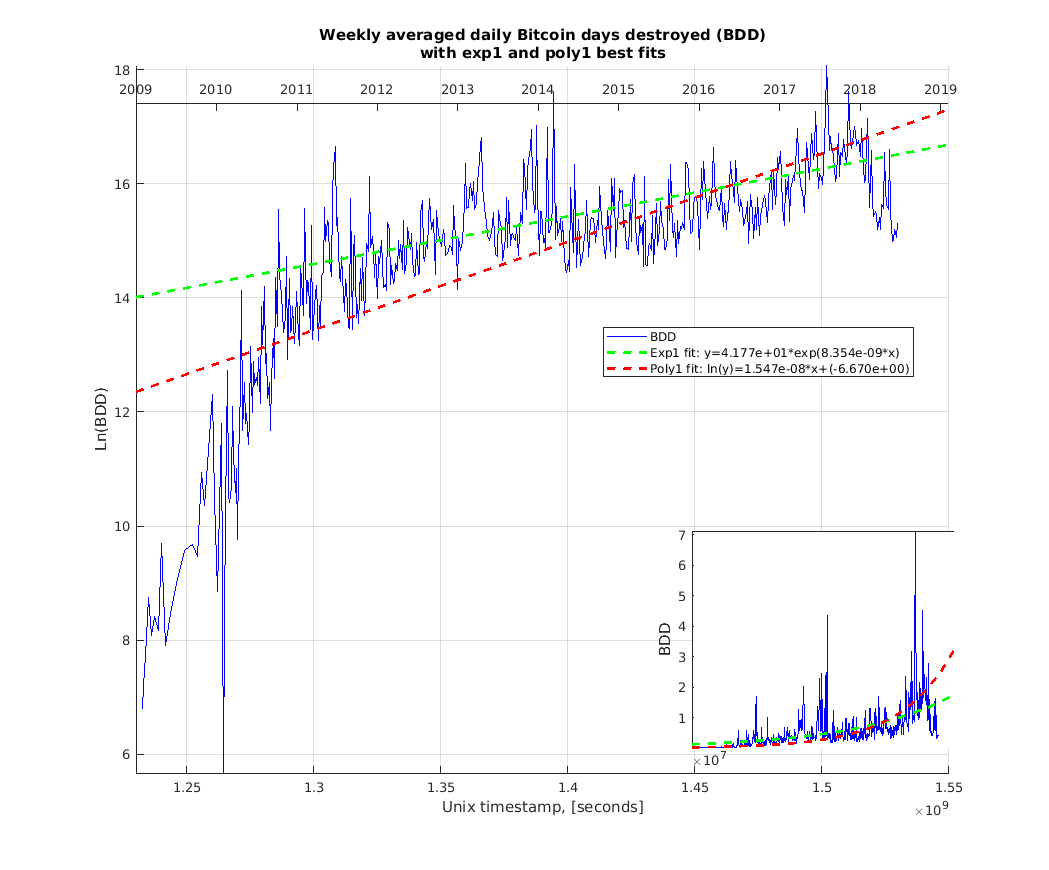
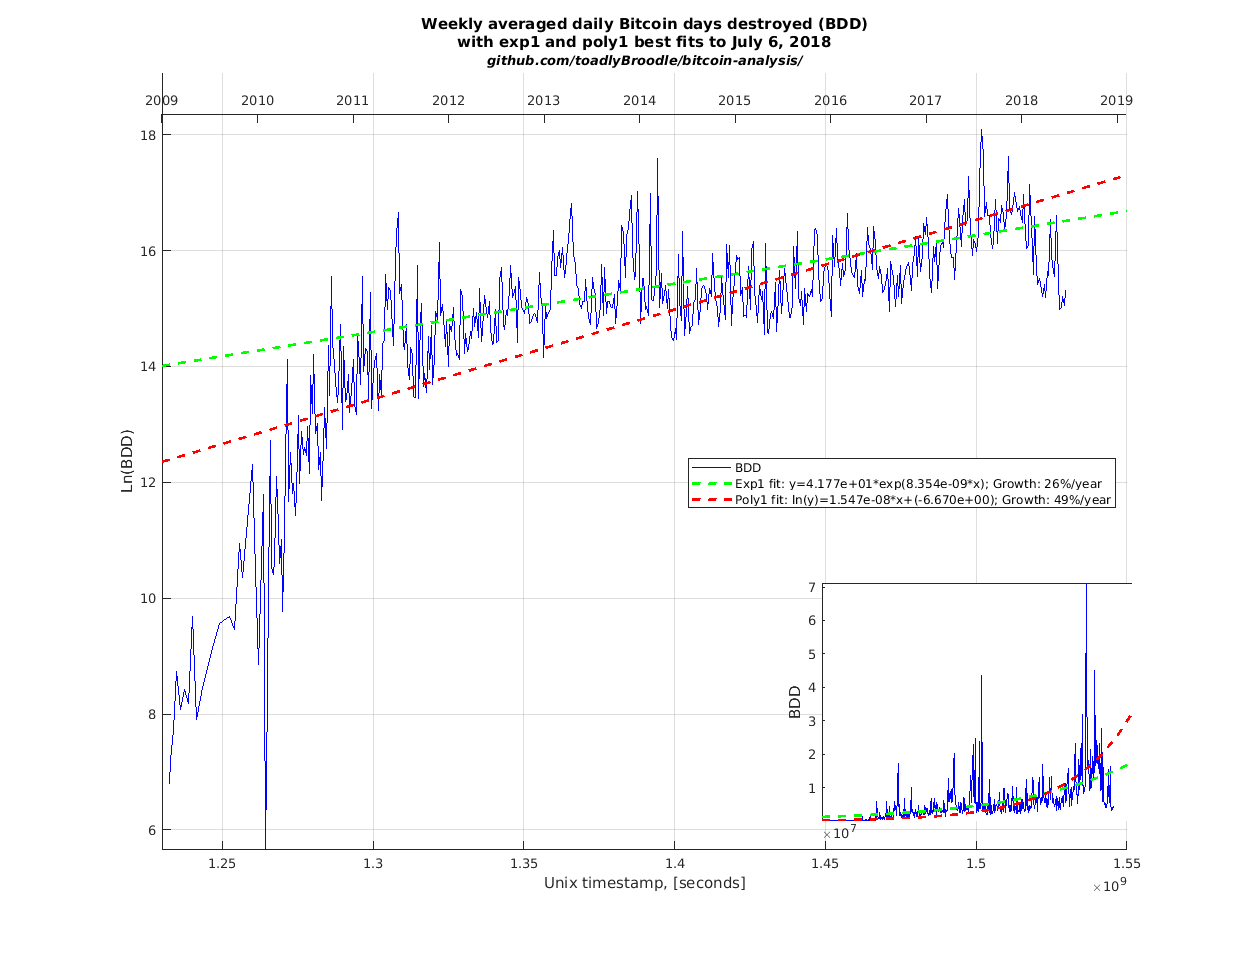
update bdd, fee, new addr, and transaction blockchain stats; add repo subtitle to stat figs; add growth rates to stat legends;

diff --git a/functions/plotBlockchainStats.m b/functions/plotBlockchainStats.m
@@ -32,8 +32,8 @@ plot(timepastfut,lnfitexpext,'g--','LineWidth',2);
 plot(timepastfut,fitpolyext,'r--','LineWidth',2);
 
 % uncomment respective titles
-%stattit = 'daily Bitcoin days destroyed (BDD)';
-%staty = 'BDD';
+stattit = 'daily Bitcoin days destroyed (BDD)';
+staty = 'BDD';
 %stattit = 'daily cumulative Bitcoin block size';
 %staty = 'Cumulative block size, [bytes]';
 %stattit = 'daily cumulative Bitcoin mining fees';
@@ -46,20 +46,22 @@ plot(timepastfut,fitpolyext,'r--','LineWidth',2);
 %staty = 'Accepted transactions';
 %stattit = 'total Bitcoin UTXOs';
 %staty = 'Total UTXOs';
-stattit = 'daily new Bitcoin addresses';
-staty = 'New addresses';
+%stattit = 'daily new Bitcoin addresses';
+%staty = 'New addresses';
 %stattit = 'daily BTC value transferred';
 %staty = 'BTC transferred, [Satoshis]';
 
 lnstaty = sprintf('Ln(%s)',staty);
 
-title({sprintf('Weekly averaged %s',stattit);'with exp1 and poly1 best fits';'(github.com/toadlyBroodle/bitcoin-analysis)'})
+title({sprintf('Weekly averaged %s',stattit);...
+    'with exp1 and poly1 best fits to July 6, 2018';...
+    '\it\fontsize{10}github.com/toadlyBroodle/bitcoin-analysis/'})
 ylabel(lnstaty)
 xlabel('Unix timestamp, [seconds]')
 %xtickformat('y');
 legend(staty,...
-    sprintf('Exp1 fit: y=%.3e*exp(%.3e*x)',fitexp.a,fitexp.b),...
-    sprintf('Poly1 fit: ln(y)=%.3e*x+(%.3e)',fitpoly.p1,fitpoly.p2));
+    sprintf('Exp1 fit: y=%.3e*exp(%.3e*x); Growth: %.0f%%/year',fitexp.a,fitexp.b, fitexp.b*60*60*24*365*100),...
+    sprintf('Poly1 fit: ln(y)=%.3e*x+(%.3e); Growth: %.0f%%/year',fitpoly.p1,fitpoly.p2,fitpoly.p1*60*60*24*365*100));
 
 % axis for years
 ax2 = axes('Position',[ax.Position(1) .88 ax.Position(3) 1e-12],...
